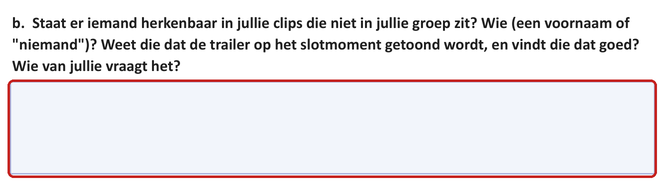
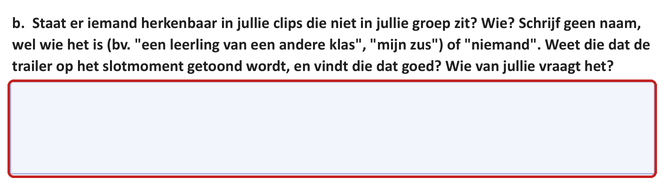
Vraag 4b zonder naam, Mag bewerken overal, Open Canva zichtbaar in Kort
Vraag 4b vraagt geen voornaam meer, wel wie het is (een leerling van een andere klas,
mijn zus): een naam van buiten de klas verbergt de verbetertool niet. Werkdocument
opnieuw gemaakt, het Google-document aan het concept vervangen (zelfde bestand, DRAFT),
het beeld bij 4b opnieuw. Kan bewerken -> Mag bewerken in README, lesfiche en § 23.
Stap 2: Open Canva is een eigen handeling, zichtbaar zonder Toon stapjes.

Changed region(s): [[0.0, 0.3191, 0.9323, 0.3989], [0.0, 0.1862, 0.9925, 0.2926], [0.7519, 0.0798, 0.9624, 0.1596]]

diff --git a/index.html b/index.html
@@ -319,9 +319,9 @@
           <div class="todo-box">
             <div class="todo-head"><h3><svg class="ic" aria-hidden="true"><use href="#i-list"/></svg> Wat moet je doen?</h3></div>
             <ol class="doe">
+<li><span class="doe-tekst"><strong>Iedereen:</strong> klik op <a class="btn btn-primary btn-open" href="https://www.canva.com" target="_blank" rel="noopener">Open Canva</a></span><span class="sub">Het opent in een nieuw tabblad. Meld je aan met je schoolaccount.</span></li>
 <li><details class="stapjes" open><summary><span class="doe-tekst"><strong>Alleen de monteur:</strong> maak een ontwerp in Canva.</span><span class="stapjes-knop" aria-hidden="true"></span></summary>
   <ol class="klein">
-    <li><p>Klik op <a class="btn btn-primary btn-open" href="https://www.canva.com" target="_blank" rel="noopener">Open Canva</a><span class="sub">Het opent in een nieuw tabblad. Meld je aan met je schoolaccount.</span></p></li>
     <li><p>Klik bovenaan op <strong>Video</strong>.</p><img class="mini" src="assets/stapjes/canva-video.png" alt="De startpagina van Canva. In de rij bovenaan staat Video in een rood kader." loading="lazy"></li>
     <li><p>Klik op <strong>Liggende video</strong>.<span class="sub">Je ontwerp opent in een nieuw tabblad, met onderaan de tijdlijn.</span></p><img class="mini" src="assets/stapjes/canva-liggende-video.png" alt="Het venster Een ontwerp maken, bij Video's. De tegel Liggende video staat in een rood kader." loading="lazy"></li>
     <li><p>Klik bovenaan op <strong>Ontwerp zonder titel</strong>. Typ <strong>Trailer –</strong> met daarachter de titel van jullie trailer, en druk op <strong>Enter</strong>.</p><img class="mini" src="assets/stapjes/canva-naam.png" alt="De balk bovenaan in Canva. De naam van het ontwerp, Trailer – De laatste bus, staat in een rood kader." loading="lazy"></li>
@@ -337,7 +337,6 @@
 </details></li>
 <li><details class="stapjes" open><summary><span class="doe-tekst"><strong>De anderen:</strong> open het ontwerp van je groep.</span><span class="stapjes-knop" aria-hidden="true"></span></summary>
   <ol class="klein">
-    <li><p>Klik op <a class="btn btn-primary btn-open" href="https://www.canva.com" target="_blank" rel="noopener">Open Canva</a><span class="sub">Meld je aan met je schoolaccount.</span></p></li>
     <li><p>Klik links op <strong>Projecten</strong> en dan op <strong>Met jou gedeeld</strong>. Klik op het ontwerp van je groep.<span class="sub">Staat het er niet? Dan deelde je monteur het niet met jou. Vraag het aan je monteur.</span></p><img class="mini" src="assets/stapjes/canva-met-jou-gedeeld.png" alt="Canva, Projecten. In de lijst staat Met jou gedeeld in een rood kader." loading="lazy"></li>
   </ol>
 </details></li>
@@ -353,7 +352,7 @@
           </div>
           <div class="tip"><svg class="ic" aria-hidden="true"><use href="#i-bulb"/></svg><p><strong>Waar is de lespagina?</strong> Canva opent je ontwerp in een nieuw tabblad. Klik bovenaan in Chrome op het tabblad <strong>Lespagina · Projectles 1</strong> om terug te gaan.</p></div>
           <div class="info" role="group" aria-labelledby="info-ontwerp">
-            <div class="info-kop"><svg class="ic" aria-hidden="true"><use href="#i-info"/></svg><span class="info-soort">Info</span><h3 id="info-ontwerp">Eén ontwerp voor de hele groep</h3><span class="info-bij">bij handeling 1 tot 4</span></div>
+            <div class="info-kop"><svg class="ic" aria-hidden="true"><use href="#i-info"/></svg><span class="info-soort">Info</span><h3 id="info-ontwerp">Eén ontwerp voor de hele groep</h3><span class="info-bij">bij handeling 2 tot 5</span></div>
             <div class="info-body">
               <ul class="doelen">
                 <li>Wie het ontwerp maakt, is de <strong>eigenaar</strong>. De eigenaar deelt het.</li>
@@ -500,7 +499,7 @@
 <li><details class="stapjes" open><summary><span class="doe-tekst">Vul <strong>deel 4</strong> in.</span><span class="stapjes-knop" aria-hidden="true"></span></summary>
   <ol class="klein">
     <li><p>Scroll naar <strong>Deel 4</strong>. Typ bij elke situatie in het vak: <strong>inkorten</strong>, <strong>splitsen</strong> of <strong>slepen</strong>.<span class="sub">Zit het stuk aan de rand of in het midden? Of klopt de volgorde niet? Kijk bij Inkorten, splitsen of slepen? in stap 4.</span></p><img class="mini" src="assets/stapjes/s5-situaties.png" alt="Deel 4: de tabel met drie situaties. De lege vakken in de kolom Wat doe je? staan in een rood kader." loading="lazy"></li>
-    <li><p>Lees vraag <strong>b</strong>. Typ in het vak wie er herkenbaar in beeld staat, of die weet dat de trailer getoond wordt, en wie het vraagt.<span class="sub">Niemand herkenbaar in beeld? Typ dan <em>niemand</em>.</span></p><img class="mini" src="assets/stapjes/s5-herkenbaar.png" alt="Deel 4: vraag b over wie er herkenbaar in beeld staat, met het antwoordvak eronder in een rood kader." loading="lazy"></li>
+    <li><p>Lees vraag <strong>b</strong>. Typ in het vak wie er herkenbaar in beeld staat, of die weet dat de trailer getoond wordt, en wie het vraagt.<span class="sub">Schrijf geen naam, wel wie het is: <em>een leerling van een andere klas</em>, <em>mijn zus</em>. Niemand herkenbaar in beeld? Typ dan <em>niemand</em>.</span></p><img class="mini" src="assets/stapjes/s5-herkenbaar.png" alt="Deel 4: vraag b over wie er herkenbaar in beeld staat, met het antwoordvak eronder in een rood kader." loading="lazy"></li>
   </ol>
 </details></li>
 <li><span class="doe-tekst">Doe de <strong>zelftest</strong> hieronder.</span></li>

diff --git a/dalton-lesfiche.html b/dalton-lesfiche.html
@@ -28,7 +28,7 @@
 
   <p style="margin: 0 0 6px; color: #288ED4; font-weight: bold;">Wat leer ik? Lesdoel(en):</p>
   <ul style="margin: 0 0 14px; list-style-type: disc;">
-    <li>Ik werk met mijn groep in één ontwerp in Canva en deel het met Kan bewerken.</li>
+    <li>Ik werk met mijn groep in één ontwerp in Canva en deel het met Mag bewerken.</li>
     <li>Ik zet mijn eigen clips met mijn gsm in dat ontwerp.</li>
     <li>Ik kort clips in, splits ze en leg ze in de volgorde van ons storyboard.</li>
   </ul>

diff --git a/werkdocument/maak_werkdocumenten.py b/werkdocument/maak_werkdocumenten.py
@@ -85,9 +85,10 @@ def montagelogboek():
         ("Midden in een clip loopt iemand door het beeld die er niet hoort.", ""),
         ("Shot 4 staat in de tijdlijn vóór shot 3.", ""),
     ], [9.6, BREEDTE - 9.6], invul=(1,), rijhoogte=1.5)
-    vraag(doc, "b.  Staat er iemand herkenbaar in jullie clips die niet in jullie groep zit? Wie (een voornaam of "
-               "\"niemand\")? Weet die dat de trailer op het slotmoment getoond wordt, en vindt die dat goed? Wie "
-               "van jullie vraagt het?")
+    # 19-10-2026: geen naam, wel wie het is. Een naam van iemand buiten de klas verbergt de verbetertool niet.
+    vraag(doc, "b.  Staat er iemand herkenbaar in jullie clips die niet in jullie groep zit? Wie? Schrijf geen naam, "
+               "wel wie het is (bv. \"een leerling van een andere klas\", \"mijn zus\") of \"niemand\". Weet die dat "
+               "de trailer op het slotmoment getoond wordt, en vindt die dat goed? Wie van jullie vraagt het?")
     antwoordvak(doc, 2.4)
 
     # ---- Deel 5: nalezen. Eerst het codewoord van de zelftest (15-10-2026, Jonas: "Codewoord idee is heel

diff --git a/README.md b/README.md
@@ -134,7 +134,7 @@ Zie `lesvoorbereiding.md` § 15–17 en de notities bij elke dia. In het kort: d
 dia 3–6 *Ik doe* (project, rollen, **demo live in Canva**, de tijdlijn als tekening), dia 7 controle (*iemand loopt door het
 beeld*), dia 8 *Iedereen doet stap 1* (4'), dia 9 keuzewerktijd, dia 10 de exitvraag (portretrecht).
 
-- **Eerste rondgang (stap 2):** werkt elke groep in **één** ontwerp, gedeeld met **Kan bewerken**?
+- **Eerste rondgang (stap 2):** werkt elke groep in **één** ontwerp, gedeeld met **Mag bewerken**?
 - **Tweede rondgang (stap 3):** staan de clips in het ontwerp, niet alleen in *Uploads*?
 - **Stap 4:** één monteur tegelijk op de tijdlijn. *Inkorten of splitsen, en waarom?*
 - Wie niet klaar is, levert toch in: zeg het mondeling aan het einde (staat niet op de pagina).
@@ -144,10 +144,10 @@ beeld*), dia 8 *Iedereen doet stap 1* (4'), dia 9 keuzewerktijd, dia 10 de exitv
 | Deel | Verwacht |
 |---|---|
 | 1 | een titel en drie voornamen bij de rollen |
-| 2 | een link die opent; gedeeld met de groep en de leraar; een x bij **Kan bewerken** |
+| 2 | een link die opent; gedeeld met de groep en de leraar; een x bij **Mag bewerken** |
 | 3 | per clip een shotnummer, wat je ziet, een x, wat geknipt is |
 | 4a | wiebelend begin → **inkorten** (de linkerrand slepen) · iemand door het beeld in het midden → **twee keer splitsen** en het stuk ertussen verwijderen · shot 4 vóór shot 3 → **slepen** |
-| 4b | wie herkenbaar in beeld staat (voornaam of *niemand*), of die weet dat de trailer getoond wordt, en wie het vraagt |
+| 4b | wie herkenbaar in beeld staat (geen naam, wel wie: *een leerling van een andere klas*, *mijn zus* … of *niemand*), of die weet dat de trailer getoond wordt, en wie het vraagt. Sinds 19-10-2026 geen voornaam meer: een naam van iemand buiten de klas verbergt de verbetertool niet |
 | 5 | codewoord **KLAPPER**; twee zinnen |
 
 Punten: 2 + 4 + 6 + 3 + 2 + 2 (*in het ontwerp*, jij kijkt via de link na) + 1 = 20, in de controletabel van deel 5.
@@ -155,7 +155,7 @@ Punten: 2 + 4 + 6 + 3 + 2 + 2 (*in het ontwerp*, jij kijkt via de link na) + 1 =
 ### Essentiële fouten — geef hier altijd feedback op
 
 - Elk groepslid een eigen ontwerp in plaats van één gedeeld ontwerp.
-- Gedeeld met *Kan bekijken* of *Kan reageren* (de groep kan niet samen monteren).
+- Gedeeld met *Mag bekijken* of *Kan reactie achterlaten* (de groep kan niet samen monteren).
 - Een link die niemand anders kan openen.
 - Iemand herkenbaar in beeld die niet weet dat de trailer getoond wordt.
 
@@ -167,6 +167,10 @@ testaccount demoleerling3, in een testontwerp met stockvideo's van Canva en een 
 `zoom`-opnames van Claude in Chrome, uitsnijden met één rood kader, en voor het filmpje `_tools/maak_instructiefilmpje.py`
 (`_afspraken/filmpjes-en-schermafbeeldingen.md`). Het Google-document aan het concept kreeg op 18-10-2026 de nieuwe
 labels van deel 2 (*Mag bekijken · Kan reactie achterlaten · Mag bewerken*; zelfde bestand, nog `DRAFT`, ingepland).
+Op 19-10-2026 kreeg het de nieuwe vraag 4b (geen naam, wel wie het is): eerst nagekeken dat het Google-document gelijk
+was aan het oude `.docx`, dan vervangen (zelfde bestand, nog `DRAFT`, ingepland 22-10 om 14.05 uur); de beelden opnieuw
+gemaakt uit de pdf van dat document (alleen `s5-herkenbaar.png` veranderde). In stap 2 is **Open Canva** sinds dan een
+eigen handeling, zichtbaar zonder *Toon stapjes*.
 
 ## 6. Het materiaal opnieuw maken
 

diff --git a/lesvoorbereiding.md b/lesvoorbereiding.md
@@ -217,9 +217,11 @@ een voorbeeldrij bovenaan (grijs, de demo):
   - *Je clip begint met 3 seconden waarin de camera nog wiebelt.* [vak]
   - *Midden in een clip loopt iemand door het beeld die er niet hoort.* [vak]
   - *Shot 4 staat in de tijdlijn vóór shot 3.* [vak]
-- **b.** *Staat er iemand herkenbaar in jullie clips die niet in jullie groep zit? Wie (een voornaam of "niemand")?
-  Weet die dat de trailer op het slotmoment getoond wordt, en vindt die dat goed? Wie van jullie vraagt het?* [vak]
-  (2 punten)
+- **b.** *Staat er iemand herkenbaar in jullie clips die niet in jullie groep zit? Wie? Schrijf geen naam, wel wie het
+  is (bv. "een leerling van een andere klas", "mijn zus") of "niemand". Weet die dat de trailer op het slotmoment
+  getoond wordt, en vindt die dat goed? Wie van jullie vraagt het?* [vak] (2 punten). Tot 19-10-2026 vroeg de vraag een
+  voornaam; de verbetertool verbergt alleen namen van de klaslijst, dus een naam van iemand buiten de klas kwam in de
+  tekst voor de AI (`_afspraken/verbeteren.md`).
 
 **Deel 5 — Nalezen** (stap 5)
 
@@ -363,7 +365,7 @@ weet dat de trailer getoond wordt.
 ## 23. Feedback
 
 - **Tijdens de les**, met denkvragen (§ 21).
-- **Na de les:** één top en één tip in Classroom; de leraar kan ook een opmerking in het ontwerp zetten (*Kan
+- **Na de les:** één top en één tip in Classroom; de leraar kan ook een opmerking in het ontwerp zetten (*Mag
   bewerken* geeft dat recht). Verbeteren en opnieuw inleveren mag.
 
 ## 24. Indieninstructies
